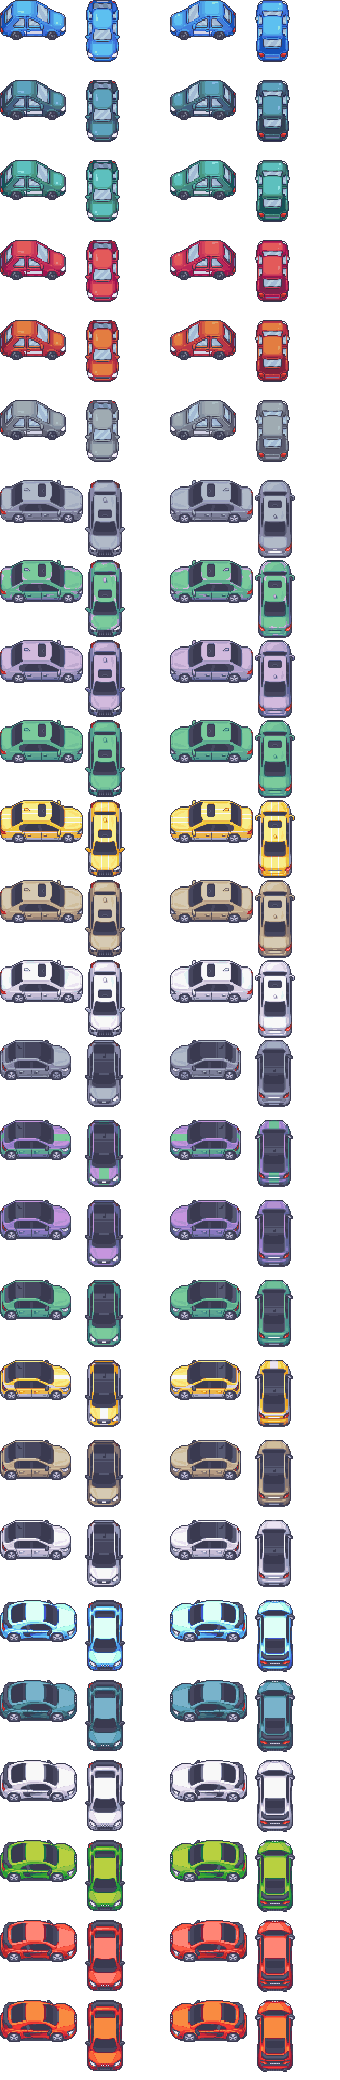
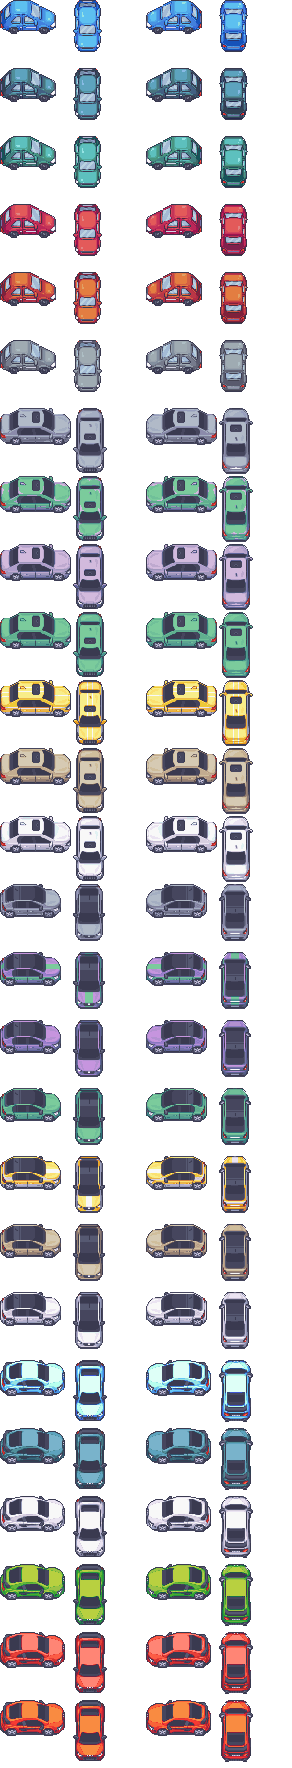
SCREAM-361: cars parked against the curb, and 15% smaller
Claude-Session: https://claude.ai/code/session_0117hxJ92acz5CJ3zJyGeUtz

Changed region(s): [[0.4932, 0.0, 0.863, 1.0], [0.0, 0.0, 0.3699, 1.0]]

diff --git a/src/config/tutorialResidents.ts b/src/config/tutorialResidents.ts
@@ -4,4 +4,4 @@
 
 import type { Resident } from '../state/Residents';
 
-export const TUTORIAL_RESIDENTS: Resident[] = [{"id":"T001","name":"Mary Poppsicles","kid":false,"street":"Westland Street","likelihood":0.3,"look":0,"door":[1218.5,968.4],"yard":[1168.0,1009.2,1259.8,993.8,1156.5,971.9,1229.5,988.9,1185.5,995.1,1154.3,996.1],"curb":[1293.3,976.2,1330.1,980.0,-84.1],"days":[0,3],"car":[1313.7,1139.2,95.9,26]},{"id":"T002","name":"Little Orphan Candy","kid":true,"street":"Russell Street","likelihood":0.3,"look":1,"door":[2246.2,1706.5],"yard":[2237.1,1718.7,2269.0,1715.1,2294.1,1712.4,2257.2,1739.5,2280.3,1729.7,2300.2,1734.2],"curb":[2315.5,1714.7,2352.2,1719.1,-83.2],"days":[0,1,3]},{"id":"T003","name":"Francine Fudge","kid":false,"street":"Institute Road","likelihood":0.65,"look":39,"door":[1358.2,306.3],"yard":[1309.4,340.9,1282.7,345.0,1386.0,330.9,1420.0,327.1,1345.7,324.4,1345.0,341.8],"curb":[1353.0,370.6,1350.0,407.5,4.6],"hinted":true,"days":[0,1,2,3,4,5,6],"car":[1250.3,399.5,-175.4,15]},{"id":"T004","name":"Machine Gun Jelly","kid":false,"street":"Westland Street","likelihood":0.35,"look":2,"door":[1071.0,1972.9],"yard":[1111.8,1990.9,1121.9,2016.6,1070.4,1997.2,1069.5,2011.9,1002.4,1993.3,1089.9,2018.8],"curb":[1075.6,2033.2,1078.4,2070.1,-4.3],"days":[1,2,4]},{"id":"T005","name":"Itty Glitty","kid":false,"street":"Westland Street","likelihood":0.65,"look":3,"door":[1426.3,1864.7],"yard":[1403.9,1887.7,1424.9,1893.7,1350.8,1891.8,1353.6,1874.3,1441.2,1890.0,1375.0,1881.9],"curb":[1334.0,1880.2,1297.2,1876.4,-84.1],"days":[0,1,2,3,4,5,6],"car":[1308.5,1767.0,-84.1,7]},{"id":"T006","name":"Pizza Joe","kid":false,"street":"Westland Street","likelihood":0.02,"look":4,"door":[1102.5,1512.9],"yard":[1098.9,1537.8,1075.4,1539.5,1072.9,1518.2,1055.9,1545.1,1131.1,1544.6,1052.9,1527.8],"curb":[916.4,1545.3,879.5,1541.7,-84.5],"orderSize":10,"days":[0,1,2,3,4,5,6],"hours":[1080,1098],"hardToFind":true},{"id":"T007","name":"Tiger Prince","kid":true,"street":"Westland Street","likelihood":0.3,"look":5,"door":[1521.3,1427.8],"yard":[1457.9,1454.1,1445.8,1436.3,1436.3,1448.5,1504.8,1447.9,1487.5,1446.2,1471.9,1450.0],"curb":[1370.1,1532.7,1333.3,1528.9,-84.1],"days":[0,3,4],"fast":true},{"id":"T008","name":"Chloe Hogan","kid":true,"street":"Westland Street","likelihood":0.8,"look":6,"door":[1133.9,1280.8],"yard":[1086.2,1310.9,1221.3,1311.8,1150.0,1321.7,1146.3,1307.1,1191.4,1306.0,1118.2,1299.6],"curb":[1260.2,1293.9,1297.0,1297.8,-84.1],"days":[0,1,2,3,4,5,6]},{"id":"T009","name":"Mary Sullivan","kid":false,"street":"Westland Street","likelihood":0.35,"look":7,"door":[1526.8,1046.6],"yard":[1464.1,1085.4,1530.1,1090.1,1526.9,1069.2,1510.6,1068.6,1496.6,1083.4,1545.0,1081.9],"curb":[1419.2,1060.5,1382.4,1056.7,-84.1],"days":[1,2],"car":[1398.8,897.5,-84.1,13]},{"id":"T010","name":"Jane Frostin","kid":false,"street":"Westland Street","likelihood":0.05,"look":8,"door":[1234.1,769.6],"yard":[1274.5,809.4,1223.5,796.8,1299.1,779.4,1239.9,790.8,1189.0,791.8,1259.9,797.3],"curb":[1313.9,777.9,1350.7,781.7,-84.1],"days":[]},{"id":"T011","name":"Rocky Road Ron","kid":true,"street":"Germain Street","likelihood":0.15,"look":9,"door":[1078.2,799.5],"yard":[1109.9,825.8,1145.2,804.0,1123.9,843.1,1030.0,823.8,1010.6,805.2,1081.9,823.3],"curb":[986.4,815.8,949.6,812.3,-84.5],"days":[0,2,4],"fast":true},{"id":"T012","name":"Candy Carlisle","kid":true,"street":"Institute Road","likelihood":0.5,"look":10,"door":[1583.2,338.3],"yard":[1637.9,369.7,1522.4,356.5,1647.8,359.2,1592.4,359.1,1619.8,364.5,1569.3,364.4],"curb":[1529.3,384.9,1526.3,421.8,4.6],"days":[0,1,2,3,4,5,6]},{"id":"T013","name":"Lucy Dulce","kid":true,"street":"Institute Road","likelihood":0.4,"look":11,"door":[1739.7,357.9],"yard":[1722.9,387.9,1770.3,391.1,1810.8,393.5,1826.1,372.4,1767.7,376.8,1745.0,384.3],"curb":[1736.2,401.7,1733.2,438.6,4.6],"days":[0,1,2,3,4,5,6],"hours":[null,1110]},{"id":"T014","name":"Joe Sullivan","kid":false,"street":"Lee Street","likelihood":0.35,"look":12,"door":[1737.4,695.1],"yard":[1763.3,728.7,1738.8,731.9,1694.1,725.0,1718.0,715.4,1716.3,737.6,1757.5,712.9],"curb":[1805.5,701.1,1842.4,704.4,95.1],"days":[0,4],"hours":[1080,null],"park":{"spots":[2022.0,2231.7,2076.0,2255.7,2110.0,2241.7,2042.0,2201.7,2010.0,2164.7,2125.0,2164.7],"exit":[2212.2,2540],"curb":[2050.2,2091.2,2047.2,2054.3,-4.6]}},{"id":"T015","name":"Shamooz","kid":false,"street":"Lee Street","likelihood":0.85,"look":13,"door":[1716.4,886.4],"yard":[1743.1,907.2,1699.3,911.8,1662.2,923.0,1624.3,916.8,1747.6,920.8,1678.3,929.3],"curb":[1781.5,972.5,1818.4,975.7,95.1],"hinted":true,"days":[0,1,2,3,4,5,6],"car":[1809.5,1075.3,95.1,1]},{"id":"T016","name":"Zombie A Poplicks","kid":false,"street":"Lee Street","likelihood":0.02,"look":14,"door":[2022.4,755.2],"yard":[2081.3,792.5,1998.0,795.2,1966.0,786.7,2033.1,792.4,1959.6,768.9,2049.3,778.5],"curb":[1928.9,827.2,1892.0,824.0,95.1],"orderSize":10,"days":[0,1,2,3,4,5,6],"hours":[1170,1188],"hardToFind":true},{"id":"T017","name":"Maximus Mintimus","kid":true,"street":"Lee Street","likelihood":0.07,"look":15,"door":[1658.6,1168.9],"yard":[1719.4,1187.2,1606.4,1187.0,1659.7,1188.0,1575.1,1187.6,1744.6,1187.3,1690.1,1190.7],"curb":[1763.4,1178.2,1800.2,1181.4,95.1],"days":[],"fast":true},{"id":"T018","name":"Jennifer Lollipopez","kid":false,"street":"Lee Street","likelihood":0.3,"look":16,"door":[1666.3,1344.0],"yard":[1602.7,1361.1,1726.7,1366.8,1658.2,1371.5,1671.0,1383.7,1602.4,1382.6,1645.0,1361.9],"curb":[1748.1,1351.2,1784.9,1354.5,95.1],"days":[2,3,4]},{"id":"T019","name":"Penelope Crust","kid":false,"street":"Germain Street","likelihood":0.35,"look":17,"door":[990.5,1864.7],"yard":[959.0,1908.7,932.6,1870.2,962.5,1887.3,948.4,1883.9,1003.3,1887.6,983.2,1886.2],"curb":[884.2,1879.6,847.4,1876.1,-84.5],"days":[1,4],"car":[836.9,1985.6,-84.5,24]},{"id":"T020","name":"Gerry Gelato","kid":false,"street":"Germain Street","likelihood":0.05,"look":18,"door":[647.9,1677.7],"yard":[648.3,1702.4,634.8,1706.3,643.6,1721.1,664.6,1717.1,620.3,1710.2,664.6,1699.0],"curb":[767.9,1689.2,804.7,1692.8,-84.5],"days":[]},{"id":"T021","name":"Ruth Butter Ginsburg","kid":false,"street":"Germain Street","likelihood":0.02,"look":19,"door":[723.8,1331.8],"yard":[752.3,1349.8,729.9,1372.2,633.8,1363.5,671.5,1351.1,694.6,1358.6,785.8,1350.5],"curb":[801.5,1339.3,838.3,1342.8,-84.5],"orderSize":10,"days":[4],"hours":[1140,1158],"hardToFind":true,"car":[880.5,904.8,95.5,8]},{"id":"T022","name":"Punky Brrrewster","kid":true,"street":"Germain Street","likelihood":0.3,"look":20,"door":[756.4,1036.0],"yard":[809.0,1064.0,816.2,1051.6,784.3,1055.8,736.5,1070.8,755.4,1054.8,812.7,1035.0],"curb":[830.0,1043.1,866.8,1046.6,-84.5],"days":[2,3]},{"id":"T023","name":"Mrs. O'Hoolahan","kid":false,"street":"Germain Street","likelihood":0.35,"look":21,"door":[801.0,713.2],"yard":[744.9,727.6,739.2,714.3,842.5,735.1,786.3,732.4,815.8,733.2],"curb":[861.1,719.0,897.9,722.5,-84.5],"days":[1,3,4],"hours":[null,1140],"car":[907.5,623.0,95.5,18]},{"id":"T024","name":"Julia Foley","kid":false,"street":"Germain Street","likelihood":0.9,"look":22,"door":[997.6,1495.7],"yard":[1011.2,1536.3,945.6,1521.6,984.2,1520.1,975.3,1533.8,934.5,1496.5,966.2,1517.3],"curb":[917.0,1538.2,880.2,1534.7,-84.5],"hinted":true,"days":[0,1,2,3,4,5,6]},{"id":"T025","name":"Sophie Scoops","kid":false,"street":"Germain Street","likelihood":0.04,"look":23,"door":[1014.2,1188.3],"yard":[977.8,1189.4,1002.1,1230.1,1016.4,1222.8,986.8,1220.1,970.8,1205.6,967.0,1224.7],"curb":[951.2,1182.3,914.4,1178.7,-84.5],"days":[],"car":[890.4,1427.5,-84.5,17]},{"id":"T026","name":"Cathleen Fallon","kid":false,"street":"Westland Street","likelihood":0.35,"look":24,"door":[1054.4,1664.4],"yard":[1151.8,1682.9,1072.9,1688.7,1099.3,1682.2,1072.4,1708.4,1136.0,1697.9,1125.6,1686.8],"curb":[903.9,1675.1,867.1,1671.5,-84.5],"days":[0,2]},{"id":"T027","name":"Darrel Strawberry","kid":true,"street":"Haviland Street","likelihood":0.15,"look":25,"door":[210.7,1713.9],"yard":[224.6,1736.5,290.7,1731.4,175.6,1738.1,233.0,1758.6,306.8,1731.8,241.5,1737.6],"curb":[374.7,1705.8,411.5,1709.6,-84.1],"days":[2,4],"fast":true},{"id":"T028","name":"Sherbert Hoover","kid":false,"street":"Haviland Street","likelihood":0.35,"look":26,"door":[583.2,1497.1],"yard":[565.7,1526.6,554.1,1502.3,542.0,1514.4,580.8,1525.9],"curb":[519.3,1611.1,482.5,1607.3,-84.1],"days":[2,4]},{"id":"T029","name":"Sully Babe","kid":false,"street":"Haviland Street","likelihood":0.05,"look":27,"door":[217.4,1506.2],"yard":[229.5,1535.5,268.6,1510.4,178.8,1547.5,161.5,1542.3,209.8,1533.9,186.8,1532.2],"curb":[391.0,1549.3,427.8,1553.1,-84.1],"days":[],"car":[401.1,1811.7,95.9,2]},{"id":"T030","name":"Grandma Gelato","kid":false,"street":"Haviland Street","likelihood":0.6,"look":28,"door":[217.8,1352.9],"yard":[256.8,1381.5,306.9,1380.1,179.8,1372.8,209.8,1376.8,273.4,1373.1,149.7,1377.7],"curb":[409.3,1372.8,446.1,1376.6,-84.1],"days":[0,1,2,3,4,5,6]},{"id":"T031","name":"Susie Parlor","kid":false,"street":"Haviland Street","likelihood":0.65,"look":29,"door":[618.0,1174.0],"yard":[577.3,1192.6,611.7,1193.6,602.0,1206.1,636.6,1194.2,635.5,1215.6,622.2,1204.8],"curb":[565.2,1168.5,528.4,1164.7,-84.1],"days":[0,1,2,3,4,5,6],"car":[517.1,1274.1,-84.1,23]},{"id":"T032","name":"Diane Freezeton","kid":false,"street":"Haviland Street","likelihood":0.15,"look":30,"door":[665.9,830.5],"yard":[675.3,857.6,699.0,849.2,699.3,863.8,641.5,864.4,664.1,867.0,713.3,856.0],"curb":[592.7,903.3,555.9,899.5,-84.1],"days":[0,2,3]},{"id":"T033","name":"Kathleen Scoopley","kid":false,"street":"Haviland Street","likelihood":0.25,"look":31,"door":[259.4,1031.9],"yard":[230.6,1071.7,170.8,1067.6,345.1,1043.7,315.0,1070.6,253.1,1076.8,290.1,1057.7],"curb":[442.6,1050.9,479.4,1054.7,-84.1],"days":[0,1,3],"hours":[1110,null],"park":{"spots":[2010.0,2164.7,2062.0,2171.7,2030.0,2254.7,1998.0,2191.7,2002.0,2271.7,2125.0,2164.7],"exit":[2273.9,2540],"curb":[2050.2,2091.2,2047.2,2054.3,-4.6]},"car":[505.1,806.0,95.9,10]},{"id":"T034","name":"Big Kev","kid":true,"street":"Haviland Street","likelihood":0.9,"look":32,"door":[723.3,610.0],"yard":[674.7,627.3,721.7,632.3,649.5,631.4,651.5,611.5,738.8,628.7,696.2,633.8],"curb":[621.6,624.6,584.8,620.8,-84.1],"orderSize":7,"hinted":true,"days":[0,1,2,3,4,5,6]},{"id":"T035","name":"Larry Birdseed","kid":false,"street":"Institute Road","likelihood":0.25,"look":33,"door":[786.9,254.7],"yard":[835.5,289.4,824.6,275.8,760.3,292.2,753.3,273.5,737.5,287.2,816.4,298.9],"curb":[750.2,322.8,748.4,359.8,2.8],"days":[0,1],"car":[1078.0,375.9,-177.2,22]},{"id":"T036","name":"Drake Maye","kid":false,"street":"Institute Road","likelihood":0.8,"look":34,"door":[2044.0,380.1],"yard":[2093.9,403.5,2051.0,405.5,2108.0,392.4,2076.7,398.7,2016.8,412.8,2107.9,417.3],"curb":[2040.3,426.3,2037.3,463.2,4.6],"days":[0,1,2,3,4,5,6],"hours":[1140,null],"park":{"spots":[2040.0,2139.7,2180.0,2223.7,2090.0,2139.7,1950.0,2137.7,2292.0,2263.7,2232.0,2263.7],"exit":[2009.5,2540],"curb":[2050.2,2091.2,2047.2,2054.3,-4.6]}},{"id":"T037","name":"Ruby Sorbet","kid":true,"street":"Institute Road","likelihood":0.07,"look":35,"door":[2440.4,398.8],"yard":[2367.2,405.3,2391.0,428.6,2433.1,426.4,2447.4,421.9,2404.8,435.6,2380.4,414.9],"curb":[2435.6,458.3,2432.6,495.2,4.6],"days":[]},{"id":"T038","name":"Michelle Mocha","kid":false,"street":"Haviland Street","likelihood":0.35,"look":36,"door":[575.5,2015.9],"yard":[635.8,2030.0,623.9,2052.1,585.2,2036.0,606.7,2050.0,637.8,2044.6,518.8,2052.6],"curb":[579.7,2070.9,582.5,2107.8,-4.3],"days":[1,3]},{"id":"T039","name":"Tomas Thanks","kid":false,"street":"Haviland Street","likelihood":0.1,"look":37,"door":[167.4,1987.8],"yard":[197.8,2019.5,218.6,2012.2,151.9,2021.0,247.3,2015.3,177.0,2018.6,246.4,1990.4],"curb":[343.6,2006.1,380.4,2009.9,-84.1],"days":[],"car":[391.7,1900.5,95.9,12]},{"id":"T040","name":"Carol Custard","kid":false,"street":"Germain Street","likelihood":0.35,"look":38,"door":[1070.5,984.6],"yard":[1151.1,997.4,982.2,986.3],"curb":[968.7,999.9,931.9,996.4,-84.5],"days":[1,2,3]},{"id":"T041","name":"Dribble Dan","kid":true,"street":"Highland Street","likelihood":0.6,"look":43,"door":[1999.2,2540],"yard":[2042.0,2201.7,2075.0,2214.7,2002.0,2271.7,2010.0,2164.7,1998.0,2191.7,2102.0,2195.7],"curb":[2050.2,2091.2,2047.2,2054.3,-4.6],"visitor":true,"park":{"spots":[2042.0,2201.7,2075.0,2214.7,2002.0,2271.7,2010.0,2164.7,1998.0,2191.7,2102.0,2195.7],"exit":[1999.2,2540],"curb":[2050.2,2091.2,2047.2,2054.3,-4.6]}},{"id":"T042","name":"Sandy Castle","kid":true,"street":"Highland Street","likelihood":0.55,"look":45,"door":[2274.1,2540],"yard":[2225.3,2235.7,2350.3,2239.7,2300.3,2242.7,2345.3,2197.7,2200.3,2241.7,2256.3,2239.7],"curb":[2050.2,2091.2,2047.2,2054.3,-4.6],"visitor":true,"park":{"spots":[2225.3,2235.7,2350.3,2239.7,2300.3,2242.7,2345.3,2197.7,2200.3,2241.7,2256.3,2239.7],"exit":[2274.1,2540],"curb":[2050.2,2091.2,2047.2,2054.3,-4.6]}},{"id":"T043","name":"Swish Sprinkles","kid":true,"street":"Highland Street","likelihood":0.5,"look":47,"door":[2135.5,2540],"yard":[2225.3,2235.7,2320.3,2203.7,2228.3,2207.7,2262.3,2209.7,2345.3,2197.7,2200.3,2241.7],"curb":[2050.2,2091.2,2047.2,2054.3,-4.6],"visitor":true,"park":{"spots":[2225.3,2235.7,2320.3,2203.7,2228.3,2207.7,2262.3,2209.7,2345.3,2197.7,2200.3,2241.7],"exit":[2135.5,2540],"curb":[2050.2,2091.2,2047.2,2054.3,-4.6]}},{"id":"T044","name":"Coach Cone","kid":false,"street":"Highland Street","likelihood":0.45,"look":40,"door":[2339.9,2540],"yard":[2292.0,2263.7,2090.0,2139.7,2180.0,2223.7,2232.0,2263.7,1950.0,2137.7,2372.0,2221.7],"curb":[2050.2,2091.2,2047.2,2054.3,-4.6],"visitor":true,"park":{"spots":[2292.0,2263.7,2090.0,2139.7,2180.0,2223.7,2232.0,2263.7,1950.0,2137.7,2372.0,2221.7],"exit":[2339.9,2540],"curb":[2050.2,2091.2,2047.2,2054.3,-4.6]}},{"id":"T045","name":"Benny Bleachers","kid":false,"street":"Highland Street","likelihood":0.35,"look":41,"door":[2241.9,2540],"yard":[2040.0,2139.7,2292.0,2263.7,2372.0,2221.7,2232.0,2263.7,2180.0,2223.7,2090.0,2139.7],"curb":[2050.2,2091.2,2047.2,2054.3,-4.6],"visitor":true,"park":{"spots":[2040.0,2139.7,2292.0,2263.7,2372.0,2221.7,2232.0,2263.7,2180.0,2223.7,2090.0,2139.7],"exit":[2241.9,2540],"curb":[2050.2,2091.2,2047.2,2054.3,-4.6]}},{"id":"T046","name":"Monkey Bars Mo","kid":true,"street":"Highland Street","likelihood":0.6,"look":48,"door":[2237.9,2540],"yard":[2022.0,2231.7,2010.0,2164.7,2002.0,2271.7,2102.0,2195.7,1998.0,2191.7,2125.0,2164.7],"curb":[2050.2,2091.2,2047.2,2054.3,-4.6],"visitor":true,"park":{"spots":[2022.0,2231.7,2010.0,2164.7,2002.0,2271.7,2102.0,2195.7,1998.0,2191.7,2125.0,2164.7],"exit":[2237.9,2540],"curb":[2050.2,2091.2,2047.2,2054.3,-4.6]}},{"id":"T047","name":"Patty Pavement","kid":false,"street":"Highland Street","likelihood":0.4,"look":42,"door":[2263.6,2540],"yard":[2010.0,2164.7,2022.0,2231.7,1998.0,2191.7,2125.0,2164.7,2042.0,2201.7,2102.0,2195.7],"curb":[2050.2,2091.2,2047.2,2054.3,-4.6],"visitor":true,"park":{"spots":[2010.0,2164.7,2022.0,2231.7,1998.0,2191.7,2125.0,2164.7,2042.0,2201.7,2102.0,2195.7],"exit":[2263.6,2540],"curb":[2050.2,2091.2,2047.2,2054.3,-4.6]}},{"id":"T048","name":"Layup Lou","kid":true,"street":"Highland Street","likelihood":0.5,"look":49,"door":[2252.2,2540],"yard":[2320.3,2203.7,2228.3,2207.7,2262.3,2209.7,2256.3,2239.7,2345.3,2197.7,2225.3,2235.7],"curb":[2050.2,2091.2,2047.2,2054.3,-4.6],"visitor":true,"park":{"spots":[2320.3,2203.7,2228.3,2207.7,2262.3,2209.7,2256.3,2239.7,2345.3,2197.7,2225.3,2235.7],"exit":[2252.2,2540],"curb":[2050.2,2091.2,2047.2,2054.3,-4.6]}},{"id":"T049","name":"Sally Slides","kid":true,"street":"Highland Street","likelihood":0.65,"look":51,"door":[2244.9,2540],"yard":[2225.3,2235.7,2320.3,2203.7,2345.3,2197.7,2200.3,2241.7,2228.3,2207.7,2300.3,2242.7],"curb":[2050.2,2091.2,2047.2,2054.3,-4.6],"visitor":true,"park":{"spots":[2225.3,2235.7,2320.3,2203.7,2345.3,2197.7,2200.3,2241.7,2228.3,2207.7,2300.3,2242.7],"exit":[2244.9,2540],"curb":[2050.2,2091.2,2047.2,2054.3,-4.6]}},{"id":"T050","name":"Rebound Rita","kid":false,"street":"Highland Street","likelihood":0.4,"look":44,"door":[2226.5,2540],"yard":[2292.0,2263.7,2090.0,2139.7,2372.0,2221.7,2180.0,2223.7,2232.0,2263.7,2040.0,2139.7],"curb":[2050.2,2091.2,2047.2,2054.3,-4.6],"visitor":true,"park":{"spots":[2292.0,2263.7,2090.0,2139.7,2372.0,2221.7,2180.0,2223.7,2232.0,2263.7,2040.0,2139.7],"exit":[2226.5,2540],"curb":[2050.2,2091.2,2047.2,2054.3,-4.6]}},{"id":"T051","name":"Nana Split","kid":false,"street":"Highland Street","likelihood":0.55,"look":46,"door":[2217.5,2540],"yard":[2002.0,2271.7,2075.0,2214.7,2102.0,2195.7,2030.0,2254.7,2062.0,2171.7,2042.0,2201.7],"curb":[2050.2,2091.2,2047.2,2054.3,-4.6],"visitor":true,"park":{"spots":[2002.0,2271.7,2075.0,2214.7,2102.0,2195.7,2030.0,2254.7,2062.0,2171.7,2042.0,2201.7],"exit":[2217.5,2540],"curb":[2050.2,2091.2,2047.2,2054.3,-4.6]}},{"id":"T052","name":"Free Throw Theo","kid":true,"street":"Highland Street","likelihood":0.45,"look":50,"door":[2090.9,2540],"yard":[2076.0,2255.7,1998.0,2191.7,2110.0,2241.7,2030.0,2254.7,2075.0,2214.7,2002.0,2271.7],"curb":[2050.2,2091.2,2047.2,2054.3,-4.6],"visitor":true,"park":{"spots":[2076.0,2255.7,1998.0,2191.7,2110.0,2241.7,2030.0,2254.7,2075.0,2214.7,2002.0,2271.7],"exit":[2090.9,2540],"curb":[2050.2,2091.2,2047.2,2054.3,-4.6]}},{"id":"T053","name":"Hopscotch Hattie","kid":true,"street":"Highland Street","likelihood":0.5,"look":52,"door":[2290.9,2540],"yard":[2022.0,2231.7,2010.0,2164.7,2002.0,2271.7,2102.0,2195.7,2076.0,2255.7,2125.0,2164.7],"curb":[2050.2,2091.2,2047.2,2054.3,-4.6],"visitor":true,"park":{"spots":[2022.0,2231.7,2010.0,2164.7,2002.0,2271.7,2102.0,2195.7,2076.0,2255.7,2125.0,2164.7],"exit":[2290.9,2540],"curb":[2050.2,2091.2,2047.2,2054.3,-4.6]}}];
+export const TUTORIAL_RESIDENTS: Resident[] = [{"id":"T001","name":"Mary Poppsicles","kid":false,"street":"Westland Street","likelihood":0.3,"look":0,"door":[1218.5,968.4],"yard":[1168.0,1009.2,1259.8,993.8,1156.5,971.9,1229.5,988.9,1185.5,995.1,1154.3,996.1],"curb":[1293.3,976.2,1330.1,980.0,-84.1],"days":[0,3],"car":[1329.5,879.4,95.9,26]},{"id":"T002","name":"Little Orphan Candy","kid":true,"street":"Russell Street","likelihood":0.3,"look":1,"door":[2246.2,1706.5],"yard":[2237.1,1718.7,2269.0,1715.1,2294.1,1712.4,2257.2,1739.5,2280.3,1729.7,2300.2,1734.2],"curb":[2315.5,1714.7,2352.2,1719.1,-83.2],"days":[0,1,3]},{"id":"T003","name":"Francine Fudge","kid":false,"street":"Institute Road","likelihood":0.65,"look":39,"door":[1358.2,306.3],"yard":[1309.4,340.9,1282.7,345.0,1386.0,330.9,1420.0,327.1,1345.7,324.4,1345.0,341.8],"curb":[1353.0,370.6,1350.0,407.5,4.6],"hinted":true,"days":[0,1,2,3,4,5,6],"car":[1251.2,388.5,-175.4,15]},{"id":"T004","name":"Machine Gun Jelly","kid":false,"street":"Westland Street","likelihood":0.35,"look":2,"door":[1071.0,1972.9],"yard":[1111.8,1990.9,1121.9,2016.6,1070.4,1997.2,1069.5,2011.9,1002.4,1993.3,1089.9,2018.8],"curb":[1075.6,2033.2,1078.4,2070.1,-4.3],"days":[1,2,4]},{"id":"T005","name":"Itty Glitty","kid":false,"street":"Westland Street","likelihood":0.65,"look":3,"door":[1426.3,1864.7],"yard":[1403.9,1887.7,1424.9,1893.7,1350.8,1891.8,1353.6,1874.3,1441.2,1890.0,1375.0,1881.9],"curb":[1334.0,1880.2,1297.2,1876.4,-84.1],"days":[0,1,2,3,4,5,6],"car":[1316.0,1777.8,-84.1,7]},{"id":"T006","name":"Pizza Joe","kid":false,"street":"Westland Street","likelihood":0.02,"look":4,"door":[1102.5,1512.9],"yard":[1098.9,1537.8,1075.4,1539.5,1072.9,1518.2,1055.9,1545.1,1131.1,1544.6,1052.9,1527.8],"curb":[916.4,1545.3,879.5,1541.7,-84.5],"orderSize":10,"days":[0,1,2,3,4,5,6],"hours":[1080,1098],"hardToFind":true},{"id":"T007","name":"Tiger Prince","kid":true,"street":"Westland Street","likelihood":0.3,"look":5,"door":[1521.3,1427.8],"yard":[1457.9,1454.1,1445.8,1436.3,1436.3,1448.5,1504.8,1447.9,1487.5,1446.2,1471.9,1450.0],"curb":[1370.1,1532.7,1333.3,1528.9,-84.1],"days":[0,3,4],"fast":true},{"id":"T008","name":"Chloe Hogan","kid":true,"street":"Westland Street","likelihood":0.8,"look":6,"door":[1133.9,1280.8],"yard":[1086.2,1310.9,1221.3,1311.8,1150.0,1321.7,1146.3,1307.1,1191.4,1306.0,1118.2,1299.6],"curb":[1260.2,1293.9,1297.0,1297.8,-84.1],"days":[0,1,2,3,4,5,6]},{"id":"T009","name":"Mary Sullivan","kid":false,"street":"Westland Street","likelihood":0.35,"look":7,"door":[1526.8,1046.6],"yard":[1464.1,1085.4,1530.1,1090.1,1526.9,1069.2,1510.6,1068.6,1496.6,1083.4,1545.0,1081.9],"curb":[1419.2,1060.5,1382.4,1056.7,-84.1],"days":[1,2],"car":[1380.5,1157.0,-84.1,13]},{"id":"T010","name":"Jane Frostin","kid":false,"street":"Westland Street","likelihood":0.05,"look":8,"door":[1234.1,769.6],"yard":[1274.5,809.4,1223.5,796.8,1299.1,779.4,1239.9,790.8,1189.0,791.8,1259.9,797.3],"curb":[1313.9,777.9,1350.7,781.7,-84.1],"days":[]},{"id":"T011","name":"Rocky Road Ron","kid":true,"street":"Germain Street","likelihood":0.15,"look":9,"door":[1078.2,799.5],"yard":[1109.9,825.8,1145.2,804.0,1123.9,843.1,1030.0,823.8,1010.6,805.2,1081.9,823.3],"curb":[986.4,815.8,949.6,812.3,-84.5],"days":[0,2,4],"fast":true},{"id":"T012","name":"Candy Carlisle","kid":true,"street":"Institute Road","likelihood":0.5,"look":10,"door":[1583.2,338.3],"yard":[1637.9,369.7,1522.4,356.5,1647.8,359.2,1592.4,359.1,1619.8,364.5,1569.3,364.4],"curb":[1529.3,384.9,1526.3,421.8,4.6],"days":[0,1,2,3,4,5,6]},{"id":"T013","name":"Lucy Dulce","kid":true,"street":"Institute Road","likelihood":0.4,"look":11,"door":[1739.7,357.9],"yard":[1722.9,387.9,1770.3,391.1,1810.8,393.5,1826.1,372.4,1767.7,376.8,1745.0,384.3],"curb":[1736.2,401.7,1733.2,438.6,4.6],"days":[0,1,2,3,4,5,6],"hours":[null,1110]},{"id":"T014","name":"Joe Sullivan","kid":false,"street":"Lee Street","likelihood":0.35,"look":12,"door":[1737.4,695.1],"yard":[1763.3,728.7,1738.8,731.9,1694.1,725.0,1718.0,715.4,1716.3,737.6,1757.5,712.9],"curb":[1805.5,701.1,1842.4,704.4,95.1],"days":[0,4],"hours":[1080,null],"park":{"spots":[2022.0,2231.7,2076.0,2255.7,2110.0,2241.7,2042.0,2201.7,2010.0,2164.7,2125.0,2164.7],"exit":[2212.2,2540],"curb":[2050.2,2091.2,2047.2,2054.3,-4.6]}},{"id":"T015","name":"Shamooz","kid":false,"street":"Lee Street","likelihood":0.85,"look":13,"door":[1716.4,886.4],"yard":[1743.1,907.2,1699.3,911.8,1662.2,923.0,1624.3,916.8,1747.6,920.8,1678.3,929.3],"curb":[1781.5,972.5,1818.4,975.7,95.1],"hinted":true,"days":[0,1,2,3,4,5,6],"car":[1800.5,1064.5,95.1,1]},{"id":"T016","name":"Zombie A Poplicks","kid":false,"street":"Lee Street","likelihood":0.02,"look":14,"door":[2022.4,755.2],"yard":[2081.3,792.5,1998.0,795.2,1966.0,786.7,2033.1,792.4,1959.6,768.9,2049.3,778.5],"curb":[1928.9,827.2,1892.0,824.0,95.1],"orderSize":10,"days":[0,1,2,3,4,5,6],"hours":[1170,1188],"hardToFind":true},{"id":"T017","name":"Maximus Mintimus","kid":true,"street":"Lee Street","likelihood":0.07,"look":15,"door":[1658.6,1168.9],"yard":[1719.4,1187.2,1606.4,1187.0,1659.7,1188.0,1575.1,1187.6,1744.6,1187.3,1690.1,1190.7],"curb":[1763.4,1178.2,1800.2,1181.4,95.1],"days":[],"fast":true},{"id":"T018","name":"Jennifer Lollipopez","kid":false,"street":"Lee Street","likelihood":0.3,"look":16,"door":[1666.3,1344.0],"yard":[1602.7,1361.1,1726.7,1366.8,1658.2,1371.5,1671.0,1383.7,1602.4,1382.6,1645.0,1361.9],"curb":[1748.1,1351.2,1784.9,1354.5,95.1],"days":[2,3,4]},{"id":"T019","name":"Penelope Crust","kid":false,"street":"Germain Street","likelihood":0.35,"look":17,"door":[990.5,1864.7],"yard":[959.0,1908.7,932.6,1870.2,962.5,1887.3,948.4,1883.9,1003.3,1887.6,983.2,1886.2],"curb":[884.2,1879.6,847.4,1876.1,-84.5],"days":[1,4],"car":[866.9,1777.5,-84.5,24]},{"id":"T020","name":"Gerry Gelato","kid":false,"street":"Germain Street","likelihood":0.05,"look":18,"door":[647.9,1677.7],"yard":[648.3,1702.4,634.8,1706.3,643.6,1721.1,664.6,1717.1,620.3,1710.2,664.6,1699.0],"curb":[767.9,1689.2,804.7,1692.8,-84.5],"days":[]},{"id":"T021","name":"Ruth Butter Ginsburg","kid":false,"street":"Germain Street","likelihood":0.02,"look":19,"door":[723.8,1331.8],"yard":[752.3,1349.8,729.9,1372.2,633.8,1363.5,671.5,1351.1,694.6,1358.6,785.8,1350.5],"curb":[801.5,1339.3,838.3,1342.8,-84.5],"orderSize":10,"days":[4],"hours":[1140,1158],"hardToFind":true,"car":[837.5,1242.3,95.5,8]},{"id":"T022","name":"Punky Brrrewster","kid":true,"street":"Germain Street","likelihood":0.3,"look":20,"door":[756.4,1036.0],"yard":[809.0,1064.0,816.2,1051.6,784.3,1055.8,736.5,1070.8,755.4,1054.8,812.7,1035.0],"curb":[830.0,1043.1,866.8,1046.6,-84.5],"days":[2,3]},{"id":"T023","name":"Mrs. O'Hoolahan","kid":false,"street":"Germain Street","likelihood":0.35,"look":21,"door":[801.0,713.2],"yard":[744.9,727.6,739.2,714.3,842.5,735.1,786.3,732.4,815.8,733.2],"curb":[861.1,719.0,897.9,722.5,-84.5],"days":[1,3,4],"hours":[null,1140],"car":[896.5,621.9,95.5,18]},{"id":"T024","name":"Julia Foley","kid":false,"street":"Germain Street","likelihood":0.9,"look":22,"door":[997.6,1495.7],"yard":[1011.2,1536.3,945.6,1521.6,984.2,1520.1,975.3,1533.8,934.5,1496.5,966.2,1517.3],"curb":[917.0,1538.2,880.2,1534.7,-84.5],"hinted":true,"days":[0,1,2,3,4,5,6]},{"id":"T025","name":"Sophie Scoops","kid":false,"street":"Germain Street","likelihood":0.04,"look":23,"door":[1014.2,1188.3],"yard":[977.8,1189.4,1002.1,1230.1,1016.4,1222.8,986.8,1220.1,970.8,1205.6,967.0,1224.7],"curb":[951.2,1182.3,914.4,1178.7,-84.5],"days":[],"car":[915.8,1279.3,-84.5,17]},{"id":"T026","name":"Cathleen Fallon","kid":false,"street":"Westland Street","likelihood":0.35,"look":24,"door":[1054.4,1664.4],"yard":[1151.8,1682.9,1072.9,1688.7,1099.3,1682.2,1072.4,1708.4,1136.0,1697.9,1125.6,1686.8],"curb":[903.9,1675.1,867.1,1671.5,-84.5],"days":[0,2]},{"id":"T027","name":"Darrel Strawberry","kid":true,"street":"Haviland Street","likelihood":0.15,"look":25,"door":[210.7,1713.9],"yard":[224.6,1736.5,290.7,1731.4,175.6,1738.1,233.0,1758.6,306.8,1731.8,241.5,1737.6],"curb":[374.7,1705.8,411.5,1709.6,-84.1],"days":[2,4],"fast":true},{"id":"T028","name":"Sherbert Hoover","kid":false,"street":"Haviland Street","likelihood":0.35,"look":26,"door":[583.2,1497.1],"yard":[565.7,1526.6,554.1,1502.3,542.0,1514.4,580.8,1525.9],"curb":[519.3,1611.1,482.5,1607.3,-84.1],"days":[2,4]},{"id":"T029","name":"Sully Babe","kid":false,"street":"Haviland Street","likelihood":0.05,"look":27,"door":[217.4,1506.2],"yard":[229.5,1535.5,268.6,1510.4,178.8,1547.5,161.5,1542.3,209.8,1533.9,186.8,1532.2],"curb":[391.0,1549.3,427.8,1553.1,-84.1],"days":[],"car":[390.1,1800.5,95.9,2]},{"id":"T030","name":"Grandma Gelato","kid":false,"street":"Haviland Street","likelihood":0.6,"look":28,"door":[217.8,1352.9],"yard":[256.8,1381.5,306.9,1380.1,179.8,1372.8,209.8,1376.8,273.4,1373.1,149.7,1377.7],"curb":[409.3,1372.8,446.1,1376.6,-84.1],"days":[0,1,2,3,4,5,6]},{"id":"T031","name":"Susie Parlor","kid":false,"street":"Haviland Street","likelihood":0.65,"look":29,"door":[618.0,1174.0],"yard":[577.3,1192.6,611.7,1193.6,602.0,1206.1,636.6,1194.2,635.5,1215.6,622.2,1204.8],"curb":[565.2,1168.5,528.4,1164.7,-84.1],"days":[0,1,2,3,4,5,6],"car":[527.0,1265.1,-84.1,23]},{"id":"T032","name":"Diane Freezeton","kid":false,"street":"Haviland Street","likelihood":0.15,"look":30,"door":[665.9,830.5],"yard":[675.3,857.6,699.0,849.2,699.3,863.8,641.5,864.4,664.1,867.0,713.3,856.0],"curb":[592.7,903.3,555.9,899.5,-84.1],"days":[0,2,3]},{"id":"T033","name":"Kathleen Scoopley","kid":false,"street":"Haviland Street","likelihood":0.25,"look":31,"door":[259.4,1031.9],"yard":[230.6,1071.7,170.8,1067.6,345.1,1043.7,315.0,1070.6,253.1,1076.8,290.1,1057.7],"curb":[442.6,1050.9,479.4,1054.7,-84.1],"days":[0,1,3],"hours":[1110,null],"park":{"spots":[2010.0,2164.7,2062.0,2171.7,2030.0,2254.7,1998.0,2191.7,2002.0,2271.7,2125.0,2164.7],"exit":[2273.9,2540],"curb":[2050.2,2091.2,2047.2,2054.3,-4.6]},"car":[449.4,1232.6,95.9,10]},{"id":"T034","name":"Big Kev","kid":true,"street":"Haviland Street","likelihood":0.9,"look":32,"door":[723.3,610.0],"yard":[674.7,627.3,721.7,632.3,649.5,631.4,651.5,611.5,738.8,628.7,696.2,633.8],"curb":[621.6,624.6,584.8,620.8,-84.1],"orderSize":7,"hinted":true,"days":[0,1,2,3,4,5,6]},{"id":"T035","name":"Larry Birdseed","kid":false,"street":"Institute Road","likelihood":0.25,"look":33,"door":[786.9,254.7],"yard":[835.5,289.4,824.6,275.8,760.3,292.2,753.3,273.5,737.5,287.2,816.4,298.9],"curb":[750.2,322.8,748.4,359.8,2.8],"days":[0,1],"car":[849.0,355.9,-177.2,22]},{"id":"T036","name":"Drake Maye","kid":false,"street":"Institute Road","likelihood":0.8,"look":34,"door":[2044.0,380.1],"yard":[2093.9,403.5,2051.0,405.5,2108.0,392.4,2076.7,398.7,2016.8,412.8,2107.9,417.3],"curb":[2040.3,426.3,2037.3,463.2,4.6],"days":[0,1,2,3,4,5,6],"hours":[1140,null],"park":{"spots":[2040.0,2139.7,2180.0,2223.7,2090.0,2139.7,1950.0,2137.7,2292.0,2263.7,2232.0,2263.7],"exit":[2009.5,2540],"curb":[2050.2,2091.2,2047.2,2054.3,-4.6]}},{"id":"T037","name":"Ruby Sorbet","kid":true,"street":"Institute Road","likelihood":0.07,"look":35,"door":[2440.4,398.8],"yard":[2367.2,405.3,2391.0,428.6,2433.1,426.4,2447.4,421.9,2404.8,435.6,2380.4,414.9],"curb":[2435.6,458.3,2432.6,495.2,4.6],"days":[]},{"id":"T038","name":"Michelle Mocha","kid":false,"street":"Haviland Street","likelihood":0.35,"look":36,"door":[575.5,2015.9],"yard":[635.8,2030.0,623.9,2052.1,585.2,2036.0,606.7,2050.0,637.8,2044.6,518.8,2052.6],"curb":[579.7,2070.9,582.5,2107.8,-4.3],"days":[1,3]},{"id":"T039","name":"Tomas Thanks","kid":false,"street":"Haviland Street","likelihood":0.1,"look":37,"door":[167.4,1987.8],"yard":[197.8,2019.5,218.6,2012.2,151.9,2021.0,247.3,2015.3,177.0,2018.6,246.4,1990.4],"curb":[343.6,2006.1,380.4,2009.9,-84.1],"days":[],"car":[380.3,1909.4,95.9,12]},{"id":"T040","name":"Carol Custard","kid":false,"street":"Germain Street","likelihood":0.35,"look":38,"door":[1070.5,984.6],"yard":[1151.1,997.4,982.2,986.3],"curb":[968.7,999.9,931.9,996.4,-84.5],"days":[1,2,3]},{"id":"T041","name":"Dribble Dan","kid":true,"street":"Highland Street","likelihood":0.6,"look":43,"door":[1999.2,2540],"yard":[2042.0,2201.7,2075.0,2214.7,2002.0,2271.7,2010.0,2164.7,1998.0,2191.7,2102.0,2195.7],"curb":[2050.2,2091.2,2047.2,2054.3,-4.6],"visitor":true,"park":{"spots":[2042.0,2201.7,2075.0,2214.7,2002.0,2271.7,2010.0,2164.7,1998.0,2191.7,2102.0,2195.7],"exit":[1999.2,2540],"curb":[2050.2,2091.2,2047.2,2054.3,-4.6]}},{"id":"T042","name":"Sandy Castle","kid":true,"street":"Highland Street","likelihood":0.55,"look":45,"door":[2274.1,2540],"yard":[2225.3,2235.7,2350.3,2239.7,2300.3,2242.7,2345.3,2197.7,2200.3,2241.7,2256.3,2239.7],"curb":[2050.2,2091.2,2047.2,2054.3,-4.6],"visitor":true,"park":{"spots":[2225.3,2235.7,2350.3,2239.7,2300.3,2242.7,2345.3,2197.7,2200.3,2241.7,2256.3,2239.7],"exit":[2274.1,2540],"curb":[2050.2,2091.2,2047.2,2054.3,-4.6]}},{"id":"T043","name":"Swish Sprinkles","kid":true,"street":"Highland Street","likelihood":0.5,"look":47,"door":[2135.5,2540],"yard":[2225.3,2235.7,2320.3,2203.7,2228.3,2207.7,2262.3,2209.7,2345.3,2197.7,2200.3,2241.7],"curb":[2050.2,2091.2,2047.2,2054.3,-4.6],"visitor":true,"park":{"spots":[2225.3,2235.7,2320.3,2203.7,2228.3,2207.7,2262.3,2209.7,2345.3,2197.7,2200.3,2241.7],"exit":[2135.5,2540],"curb":[2050.2,2091.2,2047.2,2054.3,-4.6]}},{"id":"T044","name":"Coach Cone","kid":false,"street":"Highland Street","likelihood":0.45,"look":40,"door":[2339.9,2540],"yard":[2292.0,2263.7,2090.0,2139.7,2180.0,2223.7,2232.0,2263.7,1950.0,2137.7,2372.0,2221.7],"curb":[2050.2,2091.2,2047.2,2054.3,-4.6],"visitor":true,"park":{"spots":[2292.0,2263.7,2090.0,2139.7,2180.0,2223.7,2232.0,2263.7,1950.0,2137.7,2372.0,2221.7],"exit":[2339.9,2540],"curb":[2050.2,2091.2,2047.2,2054.3,-4.6]}},{"id":"T045","name":"Benny Bleachers","kid":false,"street":"Highland Street","likelihood":0.35,"look":41,"door":[2241.9,2540],"yard":[2040.0,2139.7,2292.0,2263.7,2372.0,2221.7,2232.0,2263.7,2180.0,2223.7,2090.0,2139.7],"curb":[2050.2,2091.2,2047.2,2054.3,-4.6],"visitor":true,"park":{"spots":[2040.0,2139.7,2292.0,2263.7,2372.0,2221.7,2232.0,2263.7,2180.0,2223.7,2090.0,2139.7],"exit":[2241.9,2540],"curb":[2050.2,2091.2,2047.2,2054.3,-4.6]}},{"id":"T046","name":"Monkey Bars Mo","kid":true,"street":"Highland Street","likelihood":0.6,"look":48,"door":[2237.9,2540],"yard":[2022.0,2231.7,2010.0,2164.7,2002.0,2271.7,2102.0,2195.7,1998.0,2191.7,2125.0,2164.7],"curb":[2050.2,2091.2,2047.2,2054.3,-4.6],"visitor":true,"park":{"spots":[2022.0,2231.7,2010.0,2164.7,2002.0,2271.7,2102.0,2195.7,1998.0,2191.7,2125.0,2164.7],"exit":[2237.9,2540],"curb":[2050.2,2091.2,2047.2,2054.3,-4.6]}},{"id":"T047","name":"Patty Pavement","kid":false,"street":"Highland Street","likelihood":0.4,"look":42,"door":[2263.6,2540],"yard":[2010.0,2164.7,2022.0,2231.7,1998.0,2191.7,2125.0,2164.7,2042.0,2201.7,2102.0,2195.7],"curb":[2050.2,2091.2,2047.2,2054.3,-4.6],"visitor":true,"park":{"spots":[2010.0,2164.7,2022.0,2231.7,1998.0,2191.7,2125.0,2164.7,2042.0,2201.7,2102.0,2195.7],"exit":[2263.6,2540],"curb":[2050.2,2091.2,2047.2,2054.3,-4.6]}},{"id":"T048","name":"Layup Lou","kid":true,"street":"Highland Street","likelihood":0.5,"look":49,"door":[2252.2,2540],"yard":[2320.3,2203.7,2228.3,2207.7,2262.3,2209.7,2256.3,2239.7,2345.3,2197.7,2225.3,2235.7],"curb":[2050.2,2091.2,2047.2,2054.3,-4.6],"visitor":true,"park":{"spots":[2320.3,2203.7,2228.3,2207.7,2262.3,2209.7,2256.3,2239.7,2345.3,2197.7,2225.3,2235.7],"exit":[2252.2,2540],"curb":[2050.2,2091.2,2047.2,2054.3,-4.6]}},{"id":"T049","name":"Sally Slides","kid":true,"street":"Highland Street","likelihood":0.65,"look":51,"door":[2244.9,2540],"yard":[2225.3,2235.7,2320.3,2203.7,2345.3,2197.7,2200.3,2241.7,2228.3,2207.7,2300.3,2242.7],"curb":[2050.2,2091.2,2047.2,2054.3,-4.6],"visitor":true,"park":{"spots":[2225.3,2235.7,2320.3,2203.7,2345.3,2197.7,2200.3,2241.7,2228.3,2207.7,2300.3,2242.7],"exit":[2244.9,2540],"curb":[2050.2,2091.2,2047.2,2054.3,-4.6]}},{"id":"T050","name":"Rebound Rita","kid":false,"street":"Highland Street","likelihood":0.4,"look":44,"door":[2226.5,2540],"yard":[2292.0,2263.7,2090.0,2139.7,2372.0,2221.7,2180.0,2223.7,2232.0,2263.7,2040.0,2139.7],"curb":[2050.2,2091.2,2047.2,2054.3,-4.6],"visitor":true,"park":{"spots":[2292.0,2263.7,2090.0,2139.7,2372.0,2221.7,2180.0,2223.7,2232.0,2263.7,2040.0,2139.7],"exit":[2226.5,2540],"curb":[2050.2,2091.2,2047.2,2054.3,-4.6]}},{"id":"T051","name":"Nana Split","kid":false,"street":"Highland Street","likelihood":0.55,"look":46,"door":[2217.5,2540],"yard":[2002.0,2271.7,2075.0,2214.7,2102.0,2195.7,2030.0,2254.7,2062.0,2171.7,2042.0,2201.7],"curb":[2050.2,2091.2,2047.2,2054.3,-4.6],"visitor":true,"park":{"spots":[2002.0,2271.7,2075.0,2214.7,2102.0,2195.7,2030.0,2254.7,2062.0,2171.7,2042.0,2201.7],"exit":[2217.5,2540],"curb":[2050.2,2091.2,2047.2,2054.3,-4.6]}},{"id":"T052","name":"Free Throw Theo","kid":true,"street":"Highland Street","likelihood":0.45,"look":50,"door":[2090.9,2540],"yard":[2076.0,2255.7,1998.0,2191.7,2110.0,2241.7,2030.0,2254.7,2075.0,2214.7,2002.0,2271.7],"curb":[2050.2,2091.2,2047.2,2054.3,-4.6],"visitor":true,"park":{"spots":[2076.0,2255.7,1998.0,2191.7,2110.0,2241.7,2030.0,2254.7,2075.0,2214.7,2002.0,2271.7],"exit":[2090.9,2540],"curb":[2050.2,2091.2,2047.2,2054.3,-4.6]}},{"id":"T053","name":"Hopscotch Hattie","kid":true,"street":"Highland Street","likelihood":0.5,"look":52,"door":[2290.9,2540],"yard":[2022.0,2231.7,2010.0,2164.7,2002.0,2271.7,2102.0,2195.7,2076.0,2255.7,2125.0,2164.7],"curb":[2050.2,2091.2,2047.2,2054.3,-4.6],"visitor":true,"park":{"spots":[2022.0,2231.7,2010.0,2164.7,2002.0,2271.7,2102.0,2195.7,2076.0,2255.7,2125.0,2164.7],"exit":[2290.9,2540],"curb":[2050.2,2091.2,2047.2,2054.3,-4.6]}}];

diff --git a/src/config/carModels.ts b/src/config/carModels.ts
@@ -9,4 +9,4 @@ export interface CarModel {
   up: [number, number];
 }
 
-export const CAR_MODELS: CarModel[] = [{"model":1,"right":[66,40],"down":[35,62],"left":[66,40],"up":[35,62]},{"model":2,"right":[66,40],"down":[35,62],"left":[66,40],"up":[35,62]},{"model":3,"right":[66,40],"down":[35,62],"left":[66,40],"up":[35,62]},{"model":4,"right":[66,40],"down":[35,62],"left":[66,40],"up":[35,62]},{"model":5,"right":[66,40],"down":[35,62],"left":[66,40],"up":[35,62]},{"model":6,"right":[66,40],"down":[35,62],"left":[66,40],"up":[35,62]},{"model":7,"right":[83,43],"down":[40,77],"left":[83,43],"up":[40,78]},{"model":8,"right":[83,43],"down":[40,77],"left":[83,43],"up":[40,78]},{"model":9,"right":[83,43],"down":[40,77],"left":[83,43],"up":[40,78]},{"model":10,"right":[83,43],"down":[40,77],"left":[83,43],"up":[40,78]},{"model":11,"right":[83,43],"down":[40,77],"left":[83,43],"up":[40,78]},{"model":12,"right":[83,43],"down":[40,77],"left":[83,43],"up":[40,78]},{"model":13,"right":[83,43],"down":[40,77],"left":[83,43],"up":[40,78]},{"model":14,"right":[71,40],"down":[38,67],"left":[71,40],"up":[38,67]},{"model":15,"right":[71,40],"down":[38,67],"left":[71,40],"up":[38,67]},{"model":16,"right":[71,40],"down":[38,67],"left":[71,40],"up":[38,67]},{"model":17,"right":[71,40],"down":[38,67],"left":[71,40],"up":[38,67]},{"model":18,"right":[71,40],"down":[38,67],"left":[71,40],"up":[38,67]},{"model":19,"right":[71,40],"down":[38,67],"left":[71,40],"up":[38,67]},{"model":20,"right":[71,40],"down":[38,67],"left":[71,40],"up":[38,67]},{"model":21,"right":[77,42],"down":[40,71],"left":[77,42],"up":[40,72]},{"model":22,"right":[77,42],"down":[40,71],"left":[77,42],"up":[40,72]},{"model":23,"right":[77,42],"down":[40,71],"left":[77,42],"up":[40,72]},{"model":24,"right":[77,42],"down":[40,71],"left":[77,42],"up":[40,72]},{"model":25,"right":[77,42],"down":[40,71],"left":[77,42],"up":[40,72]},{"model":26,"right":[77,42],"down":[40,71],"left":[77,42],"up":[40,72]}];
+export const CAR_MODELS: CarModel[] = [{"model":1,"right":[56,34],"down":[29,52],"left":[56,34],"up":[29,52]},{"model":2,"right":[56,34],"down":[29,52],"left":[56,34],"up":[29,52]},{"model":3,"right":[56,34],"down":[29,52],"left":[56,34],"up":[29,52]},{"model":4,"right":[56,34],"down":[29,52],"left":[56,34],"up":[29,52]},{"model":5,"right":[56,34],"down":[29,52],"left":[56,34],"up":[29,52]},{"model":6,"right":[56,34],"down":[29,52],"left":[56,34],"up":[29,52]},{"model":7,"right":[71,37],"down":[34,65],"left":[71,37],"up":[34,66]},{"model":8,"right":[71,37],"down":[34,65],"left":[71,37],"up":[34,66]},{"model":9,"right":[71,37],"down":[34,65],"left":[71,37],"up":[34,66]},{"model":10,"right":[71,37],"down":[34,65],"left":[71,37],"up":[34,66]},{"model":11,"right":[71,37],"down":[34,65],"left":[71,37],"up":[34,66]},{"model":12,"right":[71,37],"down":[34,65],"left":[71,37],"up":[34,66]},{"model":13,"right":[71,37],"down":[34,65],"left":[71,37],"up":[34,66]},{"model":14,"right":[61,34],"down":[32,57],"left":[61,34],"up":[32,57]},{"model":15,"right":[61,34],"down":[32,57],"left":[61,34],"up":[32,57]},{"model":16,"right":[61,34],"down":[32,57],"left":[61,34],"up":[32,57]},{"model":17,"right":[61,34],"down":[32,57],"left":[61,34],"up":[32,57]},{"model":18,"right":[61,34],"down":[32,57],"left":[61,34],"up":[32,57]},{"model":19,"right":[61,34],"down":[32,57],"left":[61,34],"up":[32,57]},{"model":20,"right":[61,34],"down":[32,57],"left":[61,34],"up":[32,57]},{"model":21,"right":[65,36],"down":[34,61],"left":[65,36],"up":[34,62]},{"model":22,"right":[65,36],"down":[34,61],"left":[65,36],"up":[34,62]},{"model":23,"right":[65,36],"down":[34,61],"left":[65,36],"up":[34,62]},{"model":24,"right":[65,36],"down":[34,61],"left":[65,36],"up":[34,62]},{"model":25,"right":[65,36],"down":[34,61],"left":[65,36],"up":[34,62]},{"model":26,"right":[65,36],"down":[34,61],"left":[65,36],"up":[34,62]}];

diff --git a/tools/residents/build_residents.py b/tools/residents/build_residents.py
@@ -633,6 +633,7 @@ def place(m, people, index):
 CAR_TRUCK_ROOM = 62   # SCREAM-361: from a pink square to the end of a car (the truck's half length, 52, and a little)
 CAR_CAR_GAP = 12      # between two cars, bumper to bumper
 CAR_JUNCTION = 50     # how far past another street's edge a car keeps (out of junctions)
+CAR_CURB_GAP = 3      # SCREAM-361 (PO, November 16: "closer to the curb"): from a car's side to the curb
 
 
 def car_models():
@@ -668,6 +669,18 @@ def car_spot(m, r, squares, cars, model):
 
     for slide in [d * k for k in range(70, 470, 10) for d in (1, -1)]:  # nearest first, either way along the street
         x, y = sx + tx * slide, sy + ty * slide
+        # Snug against the curb (PO: "they look like they are in the street driving, not next to the
+        # curb parked"): step out from the middle of the street to where the asphalt ends.
+        here = min((sg for sg in segs_all if m['roads'][sg[0]]['name'] == own), key=lambda sg: seg_dist(x, y, *sg[1:])[0])
+        _, (mx, my) = seg_dist(x, y, *here[1:])
+        off = math.dist((x, y), (mx, my))
+        if off < 1:
+            continue
+        ux, uy = (x - mx) / off, (y - my) / off
+        edge = next((d for d in range(int(off), int(off) + 160) if not on_asphalt(mx + ux * (d + 1), my + uy * (d + 1))), None)
+        if edge is None:
+            continue
+        x, y = mx + ux * (edge - hw - CAR_CURB_GAP), my + uy * (edge - hw - CAR_CURB_GAP)
         corners = [(x + tx * a - ty * b, y + ty * a + tx * b) for a in (-hl, hl) for b in (-hw, hw)]
         if not all(on_asphalt(*c) for c in corners):
             continue
@@ -684,7 +697,7 @@ def car_spot(m, r, squares, cars, model):
         if math.dist((x, y), (m['homeStart']['x'], m['homeStart']['y'])) < BAY_CLEAR + hl:
             continue
         # Facing the way traffic goes on its side of the street (cars drive on the right).
-        _, (cx, cy) = seg_dist(x, y, *own_seg[1:])
+        _, (cx, cy) = seg_dist(x, y, *here[1:])
         nx, ny = x - cx, y - cy
         facing = ang if (-ty * nx + tx * ny) > 0 else (ang + 180 if ang <= 0 else ang - 180)
         return [round(x, 1), round(y, 1), round(facing, 1), model['model']]

diff --git a/tools/cars/build_cars.py b/tools/cars/build_cars.py
@@ -23,7 +23,8 @@ OUT_JSON = os.path.join(ROOT, 'public', 'assets', 'limezu', 'cars.json')
 OUT_TS = os.path.join(ROOT, 'src', 'config', 'carModels.ts')
 
 # The pack's own size, 30% smaller (PO): its shortest car, 183 px long, becomes 66 px (about 64% of the truck's 104).
-CAR_SCALE = 66 / 183
+# SCREAM-361 (PO, November 16, 13:05): "Make the cars 15% smaller": 66 px becomes about 56.
+CAR_SCALE = 66 / 183 * 0.85
 VIEWS = ['right', 'down', 'left', 'up']
 PAD = 2
 

diff --git a/docs/decision-log.md b/docs/decision-log.md
@@ -24,6 +24,8 @@ So the residents' cars in Elm Park are drawn with LimeZu Modern Exteriors' 26 ca
 
 **Engineering's calls (proposals):** "C Close" (short, so the line stays clear of the CLOSE FOR BUSINESS button); not shown when C does nothing.
 
+
+**Changed while in review (PO, November 16, 13:01 to 13:05):** "I want to move the parked cars so they look more on the side of the road. Currently they look like they are in the street driving, not next to the curb parked" (with a screenshot: one car a little off the curb, one far from it), and "Make the cars 15% smaller". Each car now sits against the curb (3 px from where the asphalt ends), and every car is 15% smaller (the shortest is 56 px long, was 66). Larry Birdseed's car moved nearer his house along Institute Road.
 ## 162 — A resident's car on the street while they're home; Elm Park's old parked cars are gone (2026-11-16)
 
 **Decision (Jira SCREAM-252, under SCREAM-11, PO, November 10 brainstorm; built November 16):** "Maybe days they are home, a car is parked in their driveway and/or in front of the house on the street." Story only. His answers (November 15, about 23:55):
